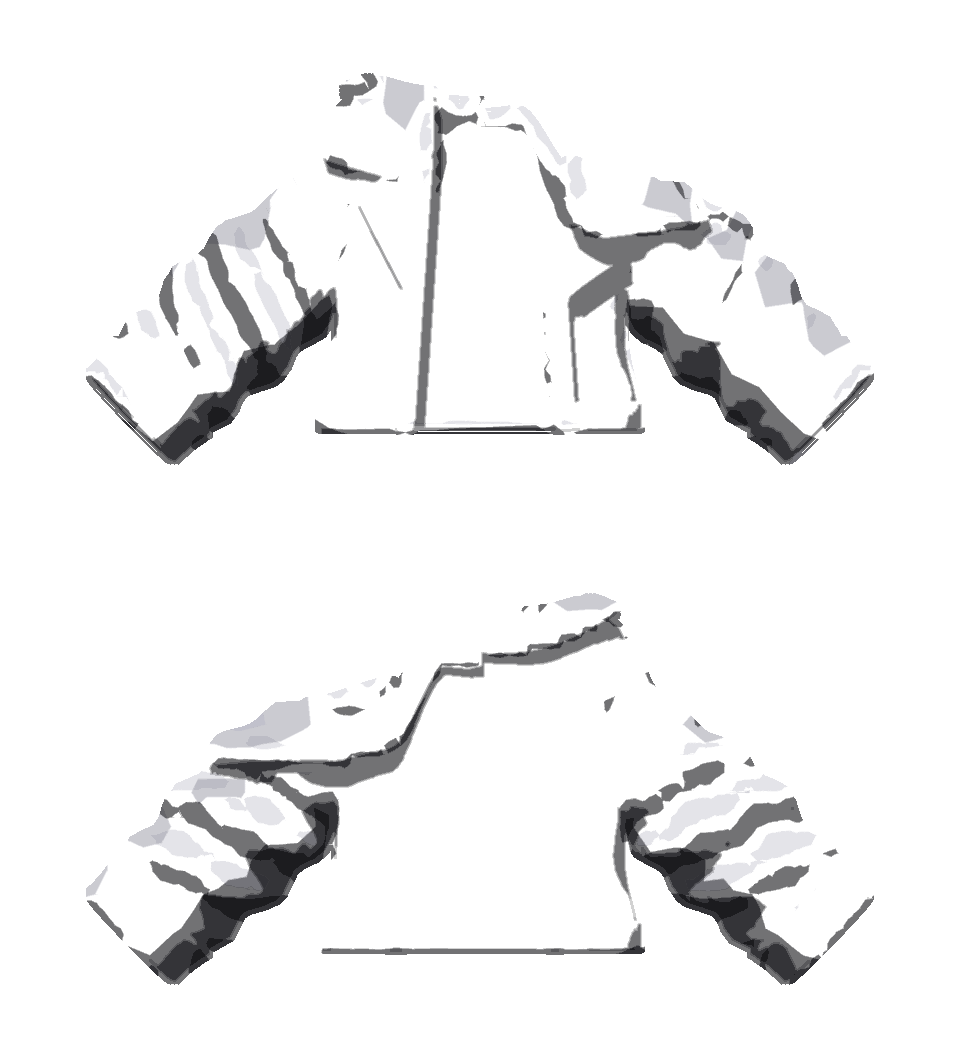
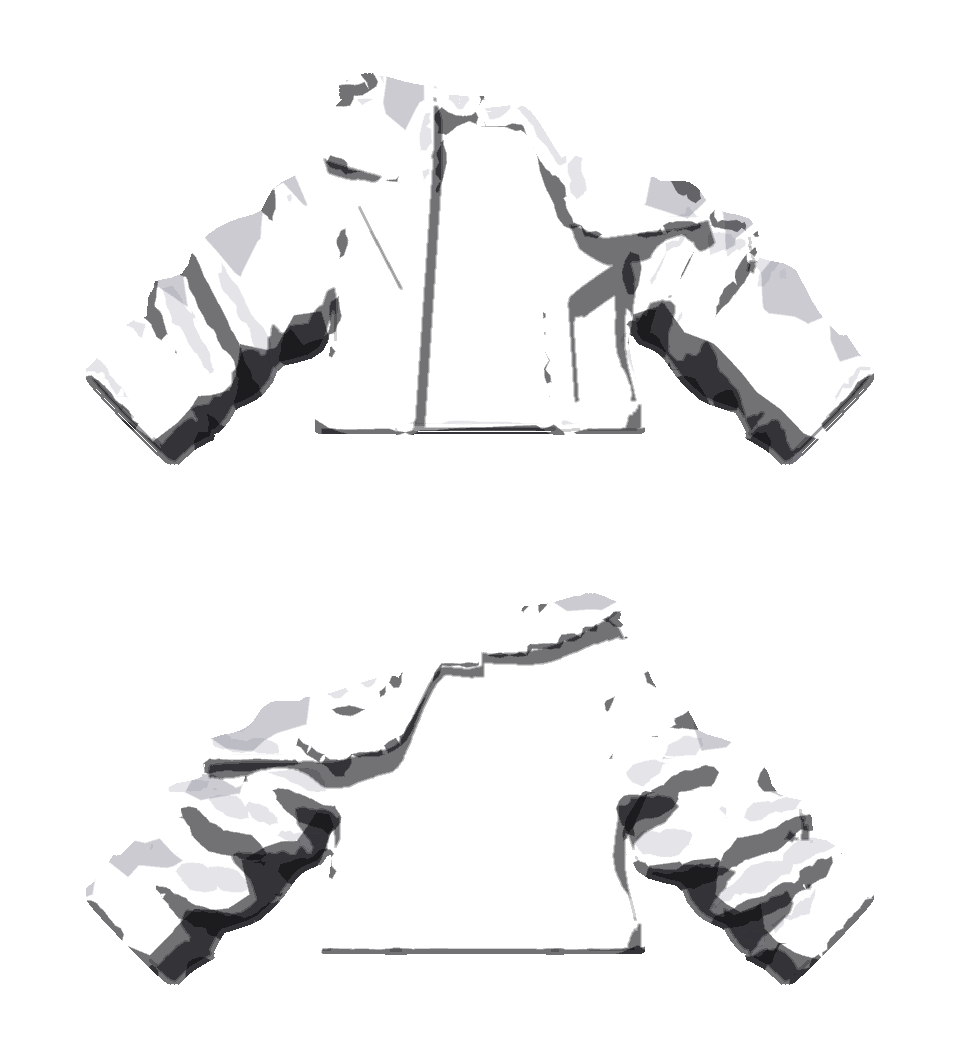
Jacket: the sleeve creases' spacing and depth wander along the arm and differ between the arms (evenly spaced, the sleeve read as a spring); Subaru's picture made again for them

diff --git a/src/garments/jacket.js b/src/garments/jacket.js
@@ -41,7 +41,8 @@ function shape({ O, P, J }) {
   const round = (x, y, z, A) => { const t = dot(x, y, z, A.A, A.u), vx = x - A.A[0] - A.u[0] * t, vy = y - A.A[1] - A.u[1] * t; return Math.atan2(z - A.A[2] - A.u[2] * t, (vx * A.u[1] - vy * A.u[0]) * A.side); };
   const tube = (x, y, z, A) => { const p = [x, y, z], d = smin(seg(p, A.A, A.u, 0.01, A.La), seg(p, A.F, A.g, 0, A.Lf + END + 0.03), 0.02) - RS; if (!BAG && !FOLD) return d;
     const LL = A.La + A.Lf, q = (clamp01(dot(x, y, z, A.A, A.u) / A.La) * A.La + clamp01(dot(x, y, z, A.F, A.g) / A.Lf) * A.Lf) / LL;   // 0 at the shoulder, 1 at the wrist
-    const fold = FOLD ? FOLD * sstep(0.25, 0.45, q) * sstep(0.95, 0.75, q) * Math.sin(2 * Math.PI * q * LL / 0.07 + 2 * round(x, y, z, A)) : 0;
+    // (their spacing and depth wander along the arm and differ between the arms: evenly spaced and as deep, the sleeve read as a spring)
+    const fold = FOLD ? (() => { const l = q * LL, r = round(x, y, z, A); return FOLD * sstep(0.18, 0.38, q) * sstep(0.97, 0.8, q) * (0.9 + 0.45 * Math.sin(2 * Math.PI * l / 0.17 + 2.3 + 0.9 * A.side - r)) * Math.sin(2 * Math.PI * l / 0.075 + 2 * r + 0.9 * Math.sin(2 * Math.PI * l / 0.21 + 1.7 * A.side)); })() : 0;
     return d - BAG * sstep(0.05, 0.55, q) * (1 - 0.6 * sstep(0.8, 1, q)) - fold; };
   const along = (x, y, z, A) => (x - A.F[0]) * A.g[0] + (y - A.F[1]) * A.g[1] + (z - A.F[2]) * A.g[2];   // how far down the forearm
   // its outer side: the body pushed out, hanging straight from the chest down and wider toward the hem (over a belt), and the sleeves' tubes

diff --git a/src/presets.js b/src/presets.js
@@ -321,7 +321,7 @@ export const CHARACTERS = {
         // engineer boots: a straight shaft with the heel in line with its back, a narrow foot, a blunt toe a little lower at its tip, the sole notched before the heel (a round last under a leg-shaped shaft read as rain boots)
         shoes: { kind: "boots", color: "#333237", soleColor: "#2a292e", bootHeight: 0.208, sole: 0.03, archCut: 0.021, archSlant: 2.6, width: 0.72, shaft: 0.85, toeLow: 0.12 },
         belt: { on: true, color: "#2f2e33", y: 0.49, width: 0.035 },
-        jacket: { on: true, color: "#3b3940", slip: "L", slipOpenHem: 0.25, hem: 0.475, flare: 0.006, lapel: 0.066, collar: 0.07, sleeveBag: 0.016, sleeveFolds: 0.006, picture: { src: SUBARU_JACKET } },
+        jacket: { on: true, color: "#3b3940", slip: "L", slipOpenHem: 0.25, hem: 0.475, flare: 0.006, lapel: 0.066, collar: 0.07, sleeveBag: 0.016, sleeveFolds: 0.008, picture: { src: SUBARU_JACKET } },
         weapon: { right: "fist", left: "fist" },
       },
       accessories: [   // (offsets from the bone's joint, as built) the belt's buckle, its end hanging down her left thigh with a buckle, the jacket's hem strap on her right
